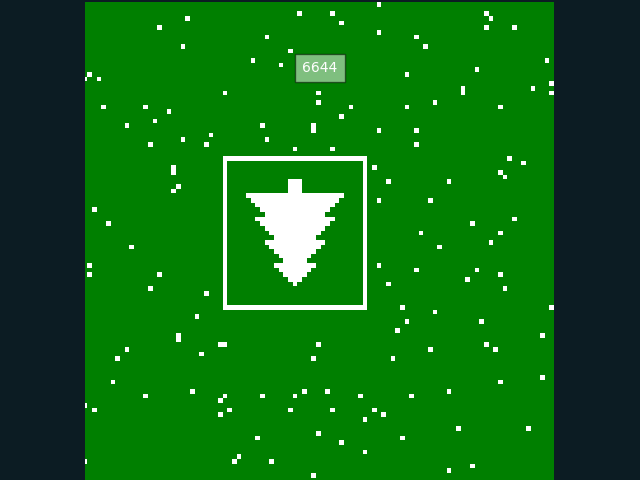
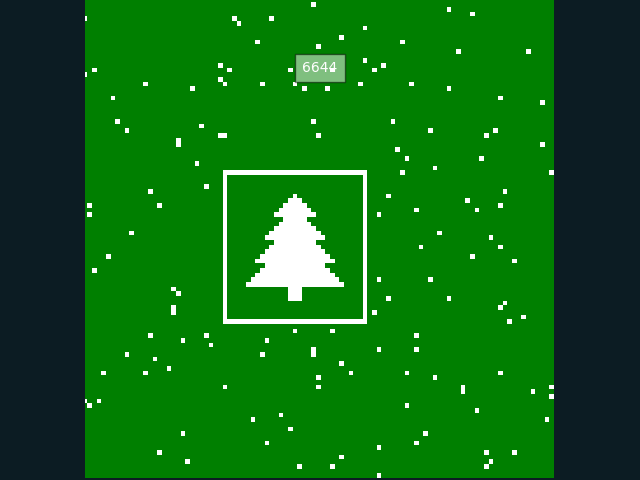
Correcting y axis direction for 2024 Day_14

diff --git a/2024/Day_14/solve.py b/2024/Day_14/solve.py
@@ -133,7 +133,7 @@ class RobotRestroom():
 
             fig, ax = plt.subplots()
             ax.set_xlim(0, self.space[0])
-            ax.set_ylim(0, self.space[1])
+            ax.set_ylim(self.space[1], 0)
             ax.set_axis_off()
             title = ax.text(0.5,0.85, "", bbox={'facecolor':'w', 'alpha':0.5, 'pad':5}, transform=ax.transAxes, ha="center")
             fig.tight_layout(pad=0)
@@ -167,7 +167,7 @@ class RobotRestroom():
             for step in range(start_frame, start_frame + total_steps):
                 fig, ax = plt.subplots()
                 ax.set_xlim(0, self.space[0])
-                ax.set_ylim(0, self.space[1])
+                ax.set_ylim(self.space[1], 0)
                 ax.set_axis_off()
                 title = ax.text(0.5,0.85, "", bbox={'facecolor':'w', 'alpha':0.5, 'pad':5}, transform=ax.transAxes, ha="center")
                 fig.tight_layout(pad=0)
